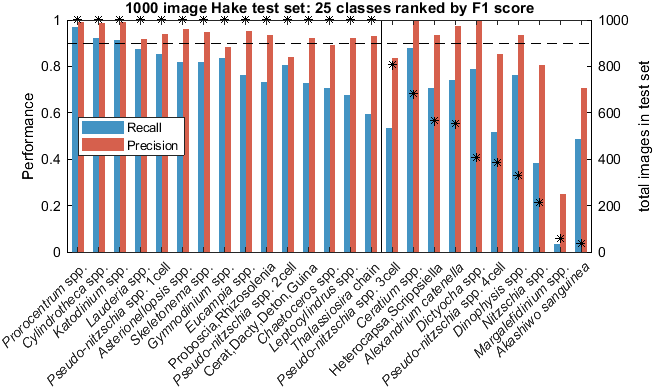
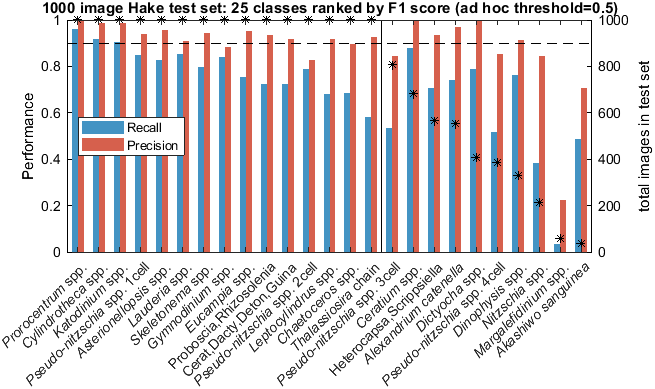
inclusion of winner takes all results

diff --git a/IFCB-Tools/threshold/plot_HakeTest_performance.m b/IFCB-Tools/threshold/plot_HakeTest_performance.m
@@ -20,8 +20,36 @@ addpath(genpath(filepath));
 class2do_full='Pseudo-nitzschia_large_1cell,Pseudo-nitzschia_small_1cell';
 
 load([filepath 'HakeTestSet_performance_' name ''],'Nclass','maxthre','aht',...
-    'adhocthresh','threlist','opt','class','Precision','Recall','F1score','tPos','fNeg','fPos');
+    'adhocthresh','threlist','opt','all','class','Precision','Recall','F1score','tPos','fNeg','fPos');
 testtotal=max(opt.total);
+
+%% plot winner-takes-all: Recall and Precision, sort by F1
+[all,~]=sortrows(all,'F1','descend');
+[all,~]=sortrows(all,'total','descend');
+[~,class_s]=get_class_ind( all.class, 'all', classidx);
+
+figure('Units','inches','Position',[1 1 7 4],'PaperPositionMode','auto');
+yyaxis left;
+b=bar([all.R all.P],'Barwidth',1,'linestyle','none'); hold on
+hline(.9,'k--');
+vline((find(all.total<testtotal,1)-.5),'k-')
+set(gca,'ycolor','k', 'xtick', 1:length(class_s), 'xticklabel', class_s); hold on
+ylabel('Performance');
+col=flipud(brewermap(2,'RdBu')); 
+for i=1:length(b)
+    set(b(i),'FaceColor',col(i,:));
+end  
+yyaxis right;
+plot(1:length(class_s),all.total,'k*'); hold on
+ylabel('total images in test set');
+set(gca,'ycolor','k', 'xtick', 1:length(class_s),'ylim',[0 max(all.total)], 'xticklabel', class_s); hold on
+legend('Recall', 'Precision','Location','W')
+title([num2str(max(all.total)) ' image Hake test set: ' num2str(length(all.class)) ' classes ranked by F1 score (Winner-takes-all)'])
+xtickangle(45);
+
+set(gcf,'color','w');
+exportgraphics(gca,[figpath 'HakeTest_F1score_all_' name '.png'],'Resolution',100)    
+hold off
 
 %% plot adhocthreshold: Recall and Precision, sort by F1
 [aht,~]=sortrows(aht,'F1','descend');
@@ -44,7 +72,7 @@ plot(1:length(class_s),aht.total,'k*'); hold on
 ylabel('total images in test set');
 set(gca,'ycolor','k', 'xtick', 1:length(class_s),'ylim',[0 max(aht.total)], 'xticklabel', class_s); hold on
 legend('Recall', 'Precision','Location','W')
-title([num2str(max(aht.total)) ' image Hake test set: ' num2str(length(aht.class)) ' classes ranked by F1 score'])
+title([num2str(max(aht.total)) ' image Hake test set: ' num2str(length(aht.class)) ' classes ranked by F1 score (ad hoc threshold=' num2str(adhocthresh) ')'])
 xtickangle(45);
 
 set(gcf,'color','w');
@@ -72,7 +100,7 @@ plot(1:length(class_s),opt.total,'k*'); hold on
 ylabel('total images in test set');
 set(gca,'ycolor','k', 'xtick', 1:length(class_s),'ylim',[0 max(opt.total)], 'xticklabel', class_s); hold on
 legend('Recall', 'Precision','Location','W')
-title([num2str(max(opt.total)) ' image Hake test set: ' num2str(length(opt.class)) ' classes ranked by F1 score'])
+title([num2str(max(opt.total)) ' image Hake test set: ' num2str(length(opt.class)) ' classes ranked by F1 score (opt score threshold)'])
 xtickangle(45);
 
 set(gcf,'color','w');

diff --git a/IFCB-Tools/classifier_oob_analysis_hake.m b/IFCB-Tools/classifier_oob_analysis_hake.m
@@ -114,6 +114,20 @@ end
 
 clearvars i ia ib F1 R P t TP TN FP FN ind win Yfit_max count
 
+%% winner takes all interpretation of scores
+[C, ~] = confusionmat(YN,YfitN); 
+total = sum(C')';
+
+[TP TN FP FN] = conf_mat_props(C);
+R = TP./(TP+FN); %recall
+P = TP./(TP+FP); %precision = TP/(TP+FP) = diag(c1)./sum(c1)'
+F1= 2*((P.*R)./(P+R));  
+
+fxUnclass = C(:,end)./total;
+class=classes;
+all=table(class,total,R,P,F1,fxUnclass);
+clearvars i ia ib F1 R P t TP TN FP FN ind win Yfit_max
+
 %% winning score assessment where only take probabilities greater than adhocthresh
 % if winning score is less than adhocthresh, then leave zero
 t = ones(size(SfitN))*adhocthresh;
@@ -184,4 +198,4 @@ clearvars i ia ib F1 R P t TP TN FP FN ind win Yfit_max
 % title(classes(val))
 %%
 save([outpath 'threshold/' classifierpath(37:end) '/HakeTestSet_performance_' classifierpath(37:end) ''],...
-    'Nclass','maxthre','threlist','opt','aht','adhocthresh','class','Precision','Recall','F1score','tPos','fNeg','fPos');
+    'Nclass','maxthre','threlist','opt','aht','all','adhocthresh','class','Precision','Recall','F1score','tPos','fNeg','fPos');
